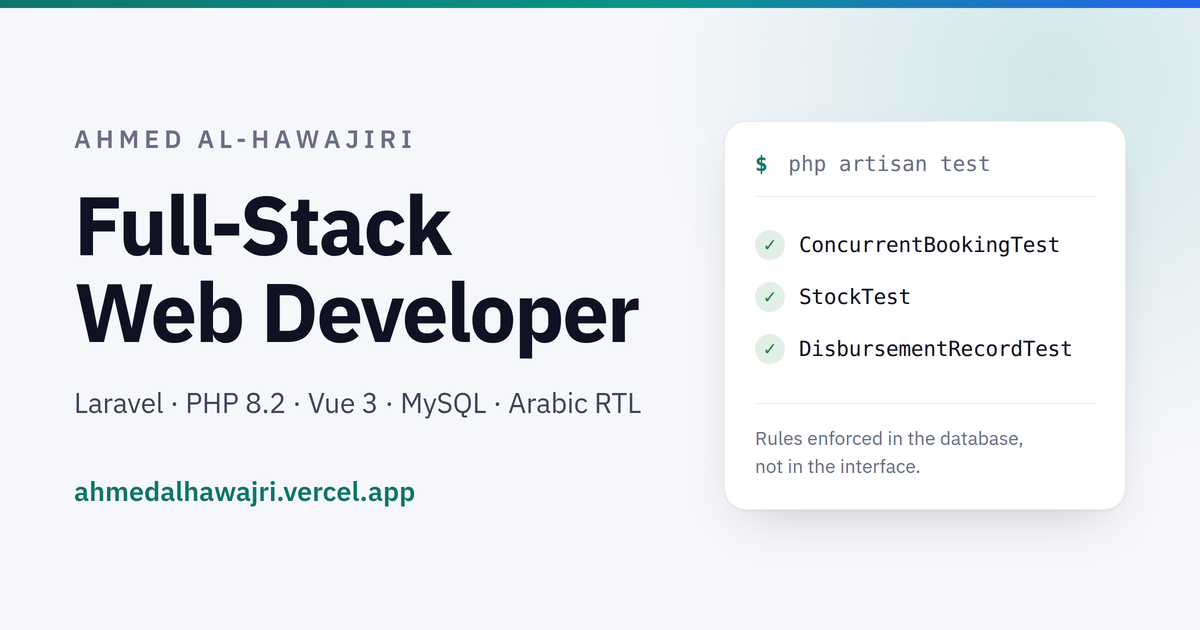
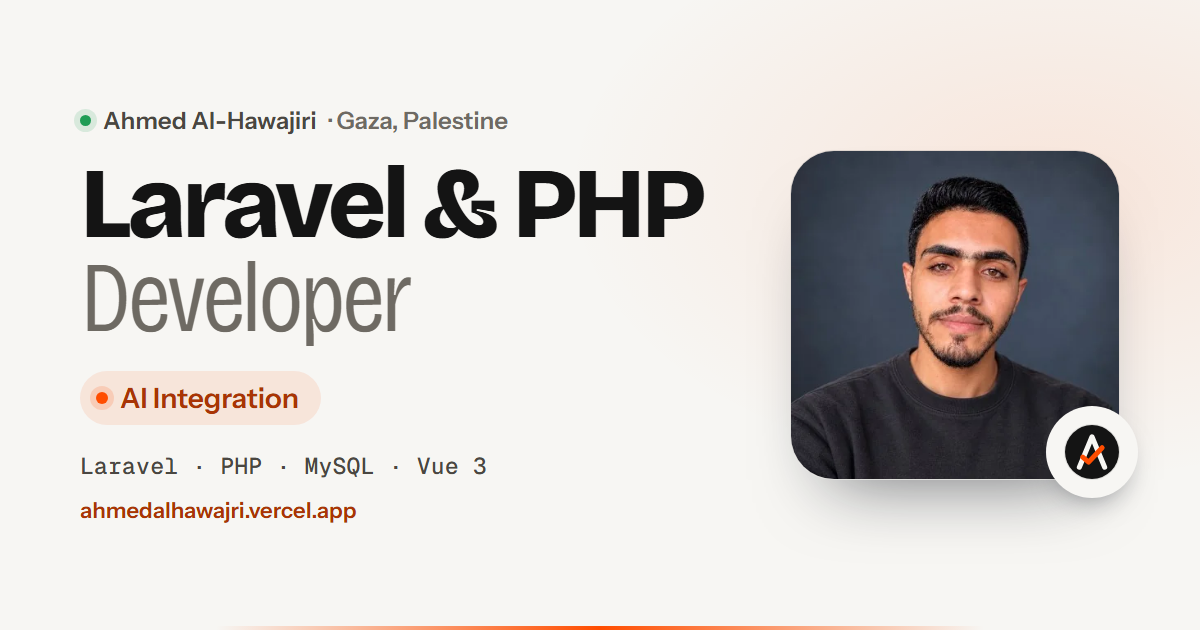
Laravel & PHP Developer · AI Integration, with the work that shows it
The title says AI integration everywhere it is named, the loading screen
included. Diwan lists the Claude API and explains its assistant and its
description drafts; AI integration joins the other services and the tool
map. The share card is redrawn in the site's own type, with his photo,
one per language.

diff --git a/lib/i18n.js b/lib/i18n.js
@@ -17,7 +17,6 @@ export const T = {
       pause: 'أوقف الحركة', play: 'شغّل الحركة',
       cta1: 'استكشف الأعمال',
       cta2: 'ابدأ مشروعك',
-      roleLine: 'Laravel · PHP · Vue 3 · MySQL · Automated Testing',
     },
     why: {
       eyebrow: 'لماذا أنا',
@@ -137,7 +136,7 @@ export const T = {
       // it answers anything else. The old heading was the positioning line,
       // which reads better as the answer to "why this way".
       h: 'أحمد الحواجري',
-      role: 'مطوّر Laravel وPHP',
+      role: 'مطوّر Laravel وPHP · ربط الذكاء الاصطناعي',
       quote: 'لا أبدأ من الشاشات. أبدأ من القواعد.',
       facts: { focus: 'التركيز', shipped: 'المنشور', shippedV: '{n} مشاريع بمستودعات عامة', years: 'الخبرة', yearsV: 'سنوات من الخبرة', langs: 'اللغات', langsV: 'العربية، الإنجليزية',
                works: 'العمل', worksV: 'عن بُعد', based: 'المقرّ' },
@@ -181,7 +180,6 @@ export const T = {
       projects: 'مشاريع',
     },
     testimonials: { eyebrow: 'آراء', h: 'ماذا يقول من عملت معهم' },
-    badge: { specialty: 'التخصص', location: 'الموقع', experience: 'الخبرة', status: 'الحالة', active: 'متاح', years: 'سنوات', hint: 'بطاقة المطوّر', title: 'مطوّر ويب Full-Stack', spec: 'Laravel & Vue' },
     timeline: { eyebrow: 'المسيرة', h: 'الخبرة والتعليم' },
     contact: {
       eyebrow: 'المشهد الأخير',
@@ -226,7 +224,7 @@ export const T = {
     foot: { nav: 'التنقّل', contact: 'تواصل', status: 'الحالة', time: 'الوقت في غزة', copy: 'نسخ', copied: 'نُسخ ✓',
       ask: 'عندك فكرة؟ لنحوّلها إلى نظام يعمل.', write: 'اكتب لي', line: 'أبني النظام كلّه، وأختبره قبل أن تراه.' },
     cv: {
-      btn: 'السيرة الذاتية', title: 'السيرة الذاتية', name: 'أحمد الحواجري', role: 'مطوّر ويب Full-Stack · لارافيل وVue',
+      btn: 'السيرة الذاتية', title: 'السيرة الذاتية', name: 'أحمد الحواجري', role: 'مطوّر Laravel وPHP · ربط الذكاء الاصطناعي',
       facts: [['mapPin', 'غزة، فلسطين · متاح للعمل عن بُعد'], ['mail', 'ahmedalhawajri89@gmail.com'], ['whatsapp', '+972 599 520 085'], ['github', 'github.com/ahmedalhawajri89']],
       download: 'تحميل PDF', open: 'فتح في تبويب جديد', meta: 'PDF · صفحتان · بالإنجليزية',
       copy: 'نسخ', copied: 'نُسخ', page: 'صفحة',
@@ -247,7 +245,6 @@ export const T = {
       pause: 'Pause the motion', play: 'Play the motion',
       cta1: 'Explore the work',
       cta2: 'Start a project',
-      roleLine: 'Laravel · PHP · Vue 3 · MySQL · Automated Testing',
     },
     why: {
       eyebrow: 'Why me',
@@ -361,7 +358,7 @@ export const T = {
     about: {
       eyebrow: 'Behind the camera',
       h: 'Ahmed Al-Hawajiri',
-      role: 'Laravel & PHP Developer',
+      role: 'Laravel & PHP Developer · AI Integration',
       quote: 'I don’t start from the screens. I start from the rules.',
       facts: { focus: 'Focus', shipped: 'Shipped', shippedV: '{n} projects with public repositories', years: 'Experience', yearsV: 'Multiple years', langs: 'Languages', langsV: 'Arabic, English',
                works: 'Works', worksV: 'Remote', based: 'Based in' },
@@ -401,7 +398,6 @@ export const T = {
       projects: 'projects',
     },
     testimonials: { eyebrow: 'Testimonials', h: 'What people I worked with say' },
-    badge: { specialty: 'Specialty', location: 'Location', experience: 'Experience', status: 'Status', active: 'Available', years: 'years', hint: 'Developer card', title: 'Full-Stack Web Developer', spec: 'Laravel & Vue' },
     timeline: { eyebrow: 'Journey', h: 'Experience & education' },
     contact: {
       eyebrow: 'The last scene',
@@ -444,7 +440,7 @@ export const T = {
     foot: { nav: 'Navigate', contact: 'Contact', status: 'Status', time: 'Time in Gaza', copy: 'Copy', copied: 'Copied ✓',
       ask: 'Got an idea? Let’s turn it into a system that works.', write: 'Write to me', line: 'I build the whole system, and test it before you see it.' },
     cv: {
-      btn: 'Résumé', title: 'Résumé', name: 'Ahmed Al-Hawajiri', role: 'Full-Stack Web Developer · Laravel & Vue',
+      btn: 'Résumé', title: 'Résumé', name: 'Ahmed Al-Hawajiri', role: 'Laravel & PHP Developer · AI Integration',
       facts: [['mapPin', 'Gaza, Palestine · open to remote work'], ['mail', 'ahmedalhawajri89@gmail.com'], ['whatsapp', '+972 599 520 085'], ['github', 'github.com/ahmedalhawajri89']],
       download: 'Download PDF', open: 'Open in a new tab', meta: 'PDF · 2 pages · English',
       copy: 'Copy', copied: 'Copied', page: 'Page',

diff --git a/content/projects.js b/content/projects.js
@@ -10,7 +10,7 @@ export const PROJECTS = [
     cover: 'product',
     year: '2026',
     status: 'independent',
-    stack: ['Laravel 12', 'PHP 8.2', 'MySQL', 'Blade', 'Tailwind 4', 'Alpine.js', 'Pest', 'Vercel'],
+    stack: ['Laravel 12', 'PHP 8.2', 'MySQL', 'Blade', 'Tailwind 4', 'Alpine.js', 'Pest', 'Claude API', 'Vercel'],
     repo: 'https://github.com/ahmedalhawajri89/diwan-e-commerce',
     demo: 'https://diwan-xi.vercel.app/',
     ar: {
@@ -36,6 +36,10 @@ export const PROJECTS = [
           h: 'المخزون يُحسم في قاعدة البيانات لا في PHP',
           b: 'الشراء يقفل صف المنتج بـ lockForUpdate داخل المعاملة نفسها التي تكتب الطلب، فلا يفوز اثنان بآخر قطعة. وسلّة فيها سطر غير متوفّر تفشل كاملةً: لا يُخصم شيء ولا يبقى طلب ناقص. وإلغاء الطلب يعيد المخزون مرّة واحدة مهما حُفظ الطلب بعدها.',
         },
+        {
+          h: 'مساعد يجيب من الكتالوج الحقيقي، لا من خياله',
+          b: '«اسأل ديوان» مبنيّ على Claude: يبحث في الكتالوج بأداتين للقراءة فقط، ويقترح حتى أربع قطع، ولا يَعرض منها إلا ما أعادته الأدوات فعلاً، فلا يخترع قطعة ولا سعراً، ويعرف هل تتّسع القطعة لغرفة الزائر وهل تصل إليها. وفي لوحة التحكم يكتب Claude مسودّة وصف المنتج بالعربية والإنجليزية من بياناته وصورته، مقيّداً بما سُجّل فقط. والميزتان تحرسهما اختبارات.',
+        },
       ],
     },
     en: {
@@ -60,6 +64,10 @@ export const PROJECTS = [
         {
           h: 'Stock is decided in the database, not in PHP',
           b: 'Checkout locks the product row with lockForUpdate inside the transaction that writes the order, so two customers reaching for the last piece cannot both succeed. A cart with one unavailable line fails whole. Cancelling returns the stock exactly once.',
+        },
+        {
+          h: 'An assistant that answers from the real catalogue',
+          b: '“Ask Diwan” is built on Claude: it searches the catalogue through two read-only tools, suggests up to four pieces and shows only pieces those tools actually returned, so it cannot invent a product or a price; it knows whether a piece fits the visitor’s room and whether it gets there. In the admin, Claude drafts a product’s description in Arabic and English from its facts and photograph, held to what was recorded. Both are covered by tests.',
         },
       ],
     },
@@ -324,8 +332,8 @@ export const PROJECTS = [
 export const PROFILE = {
   name: { ar: 'أحمد الحواجري', en: 'Ahmed Al-Hawajiri' },
   role: {
-    ar: 'مطوّر Laravel وPHP',
-    en: 'Laravel & PHP Developer',
+    ar: 'مطوّر Laravel وPHP · ربط الذكاء الاصطناعي',
+    en: 'Laravel & PHP Developer · AI Integration',
   },
   location: { ar: 'غزة، فلسطين', en: 'Gaza, Palestine' },
   lede: {

diff --git a/content/site.js b/content/site.js
@@ -52,6 +52,13 @@ export const SERVICES = [
     en: { h: 'Testing & QA', phrase: 'testing & QA', b: 'Automated tests for an existing Laravel app, so a bug we fixed stays fixed after the next change.' },
   },
   {
+    // Shown in Diwan's assistant and description drafts; listed without a
+    // proof label by choice.
+    icon: 'spark', proof: null, visual: 'ai',
+    ar: { h: 'ربط الذكاء الاصطناعي بتطبيقك', phrase: 'ربط الذكاء الاصطناعي بتطبيقك', b: 'أربط نموذجاً مثل Claude ببيانات تطبيقك وقواعده: مساعد يجيب من بياناتك الحقيقية، ونصوص تُكتب من سجلّاتك، مقيّدة بما هو موجود فعلاً ومحروسة باختبارات.' },
+    en: { h: 'AI integration', phrase: 'AI integration', b: 'I connect a model like Claude to your app’s own data and rules: an assistant that answers from your real data, text drafted from your records, held to what actually exists and covered by tests.' },
+  },
+  {
     icon: 'code', proof: null, visual: 'diff', note: 'Laravel · PHP',
     ar: { h: 'تطوير مشروع قائم', b: 'أكمل تطبيقاً موجوداً أو أصلحه: أقرأ الكود أولاً، ثم أصغر تغيير يحلّ المشكلة.' },
     en: { h: 'Work on an existing project', b: 'I finish or fix an app that already exists: I read the code first, then make the smallest change that solves it.' },
@@ -89,6 +96,12 @@ export const CAPABILITIES = [
     ar: { h: 'الهندسة والاختبار', b: 'اختبارات PHP للقواعد، وVitest لمنطق الواجهة، وPlaywright في المتصفح.' },
     en: { h: 'Engineering & testing', b: 'PHP tests for the rules, Vitest for the interface logic, Playwright in the browser.' },
     items: ['Pest', 'PHPUnit', 'Vitest', 'Playwright'],
+  },
+  {
+    key: 'ai',
+    ar: { h: 'ربط الذكاء الاصطناعي', b: 'نماذج مثل Claude مربوطة ببيانات التطبيق وقواعده، بإجابات مقيّدة بشكل محدّد وأدوات للقراءة فقط.' },
+    en: { h: 'AI integration', b: 'Models like Claude wired to the app’s own data and rules, with answers held to a fixed shape and read-only tools.' },
+    items: ['Claude API'],
   },
 ];
 

diff --git a/app/[lang]/layout.jsx b/app/[lang]/layout.jsx
@@ -15,8 +15,8 @@ export async function generateMetadata({ params }) {
   const { lang } = await params;
   const ar = lang === 'ar';
   const title = ar
-    ? 'أحمد الحواجري · مطوّر Laravel وPHP'
-    : 'Ahmed Al-Hawajiri · Laravel & PHP Developer';
+    ? 'أحمد الحواجري · مطوّر Laravel وPHP · ربط الذكاء الاصطناعي'
+    : 'Ahmed Al-Hawajiri · Laravel & PHP Developer · AI Integration';
   const description = ar
     ? 'مطوّر Laravel وPHP من غزة. أبني أنظمة حجز ومتاجر إلكترونية ولوحات تحكم بالعربية والإنجليزية، بـ Laravel وMySQL وVue 3، مع اختبارات آلية للقواعد المهمة.'
     : 'Laravel & PHP developer from Gaza. I build booking systems, online stores and admin dashboards in Arabic and English, with Laravel, MySQL and Vue 3, and automated tests for the rules that matter.';
@@ -38,9 +38,10 @@ export async function generateMetadata({ params }) {
       title,
       description,
       url: `${SITE}/${lang}/`,
-      images: [{ url: '/og.png', width: 1200, height: 630, alt: title }],
+      // The card a shared link shows, one per language.
+      images: [{ url: ar ? '/og-ar.png' : '/og.png', width: 1200, height: 630, alt: title }],
     },
-    twitter: { card: 'summary_large_image', title, description, images: ['/og.png'] },
+    twitter: { card: 'summary_large_image', title, description, images: [ar ? '/og-ar.png' : '/og.png'] },
     icons: { icon: [{ url: '/favicon.svg', type: 'image/svg+xml' }, { url: '/favicon.ico', sizes: '32x32' }] },
   };
 }
@@ -93,7 +94,7 @@ export default async function RootLayout({ children, params }) {
               '@type': 'Person',
               name: 'Ahmed Al-Hawajiri',
               alternateName: 'أحمد الحواجري',
-              jobTitle: 'Laravel & PHP Developer',
+              jobTitle: 'Laravel & PHP Developer · AI Integration',
               url: SITE,
               address: { '@type': 'PostalAddress', addressLocality: 'Gaza', addressCountry: 'PS' },
               knowsLanguage: ['ar', 'en'],

diff --git a/app/[lang]/page.jsx b/app/[lang]/page.jsx
@@ -26,8 +26,8 @@ export function generateStaticParams() {
 }
 
 // Services and tool groups take the project hues (lib/hues.js) by meaning.
-const SV_HUE = { shop: 'var(--h-sec)', book: 'var(--h-ui)', dash: 'var(--h-api)', api: 'var(--h-db)', figma: 'var(--accent)', tests: 'var(--h-test)', diff: 'var(--ink-2)' };
-const CAP_HUE = { backend: 'var(--h-db)', frontend: 'var(--h-ui)', ui: 'var(--h-sec)', testing: 'var(--h-test)' };
+const SV_HUE = { shop: 'var(--h-sec)', book: 'var(--h-ui)', dash: 'var(--h-api)', api: 'var(--h-db)', figma: 'var(--accent)', tests: 'var(--h-test)', diff: 'var(--ink-2)', ai: 'var(--h-api)' };
+const CAP_HUE = { backend: 'var(--h-db)', frontend: 'var(--h-ui)', ui: 'var(--h-sec)', testing: 'var(--h-test)', ai: 'var(--h-api)' };
 
 /* A small moving mark for each service, drawn in its colour: what the
    service makes, in a gesture. They loop only while on screen
@@ -93,7 +93,7 @@ export default async function Home({ params }) {
       <TimelineScroll />
       <Motion />
       <Nav lang={lang} path="/" home />
-      <Intro name={PROFILE.name[lang]} role={t.hero.roleLine} words={t.intro.words} rtl={ar} />
+      <Intro name={PROFILE.name[lang]} role={t.about.role} words={t.intro.words} rtl={ar} />
       <Curtain routes={curtainRoutes(lang)} here={`/${lang}/`} />
       <Pointer label={t.work.view} />
       <Scenes chapters={[

diff --git a/styles/globals.css b/styles/globals.css
@@ -900,7 +900,7 @@ html[lang="ar"] .fm-u{--w:900}
 
 .tb-brand{display:inline-flex;align-items:center;gap:12px;min-width:0;justify-self:start;text-decoration:none;color:var(--ink)}
 .tb-brand:focus-visible{outline:2px solid var(--ink);outline-offset:4px;border-radius:12px}
-.tb-id{display:grid;gap:3px;max-width:260px;overflow:hidden;white-space:nowrap;transition:max-width .6s var(--tb-ease),opacity .35s ease}
+.tb-id{display:grid;gap:3px;max-width:300px;overflow:hidden;white-space:nowrap;transition:max-width .6s var(--tb-ease),opacity .35s ease}
 .tb.is-scrolled .tb-id{max-width:0;opacity:0}
 .tb-name{font-size:16px;font-weight:800;line-height:1.1;letter-spacing:-.015em}
 [dir="rtl"] .tb-name{letter-spacing:0;font-size:16.5px}
@@ -1068,6 +1068,7 @@ html.intro .intro-panel{position:fixed;inset:0;z-index:95;display:flex;flex-dire
 .intro-a{stroke:var(--bg)}
 .intro-check{stroke:var(--accent);opacity:0}
 .ip-role{font-family:'GeistMono',ui-monospace,monospace;font-size:12.5px;font-weight:500;color:var(--ink-3)}
+[dir="rtl"] .ip-role{font-family:inherit;font-size:13.5px;font-weight:600}
 .ip-count{font-family:'GeistMono',ui-monospace,monospace;font-size:clamp(28px,3.4vw,46px);font-weight:500;color:var(--ink);font-variant-numeric:tabular-nums}
 .ip-count b{font-weight:500}
 /* the words: stacked in one place, each piece rising out of its own mask,

diff --git a/components/Intro.jsx b/components/Intro.jsx
@@ -137,7 +137,7 @@ export default function Intro({ name, role, words, rtl }) {
 
       <div>
         <div className="ip-row">
-          <p className="ip-mask"><span className="ip-line ip-role lat">{role}</span></p>
+          <p className="ip-mask"><span className={`ip-line ip-role${rtl ? '' : ' lat'}`}>{role}</span></p>
           <p className="ip-mask"><span className="ip-line ip-step lat"><b>01</b> / {String(words.length).padStart(2, '0')}</span></p>
           <p className="ip-mask"><span className="ip-line ip-count lat"><b ref={num}>000</b>%</span></p>
         </div>

diff --git a/app/(root)/page.jsx b/app/(root)/page.jsx
@@ -21,7 +21,7 @@ export default function RootRedirect() {
   return (
     <>
       <meta httpEquiv="refresh" content="0; url=/en/" />
-      <title>Ahmed Al-Hawajiri · Laravel & PHP Developer</title>
+      <title>Ahmed Al-Hawajiri · Laravel & PHP Developer · AI Integration</title>
       {/* Not indexable: the real pages are /en/ and /ar/, each canonical to
           itself, and this one holds no content worth ranking. */}
       <meta name="robots" content="noindex" />

diff --git a/app/[lang]/work/[slug]/page.jsx b/app/[lang]/work/[slug]/page.jsx
@@ -44,7 +44,7 @@ export async function generateMetadata({ params }) {
       canonical: here,
       languages: Object.fromEntries(LANGS.map((l) => [l, `${SITE}/${l}/work/${slug}/`])),
     },
-    openGraph: { type: 'article', url: here, title, description: c.tagline, images: [{ url: '/og.png' }] },
+    openGraph: { type: 'article', url: here, title, description: c.tagline, images: [{ url: lang === 'ar' ? '/og-ar.png' : '/og.png', width: 1200, height: 630 }] },
   };
 }
 
